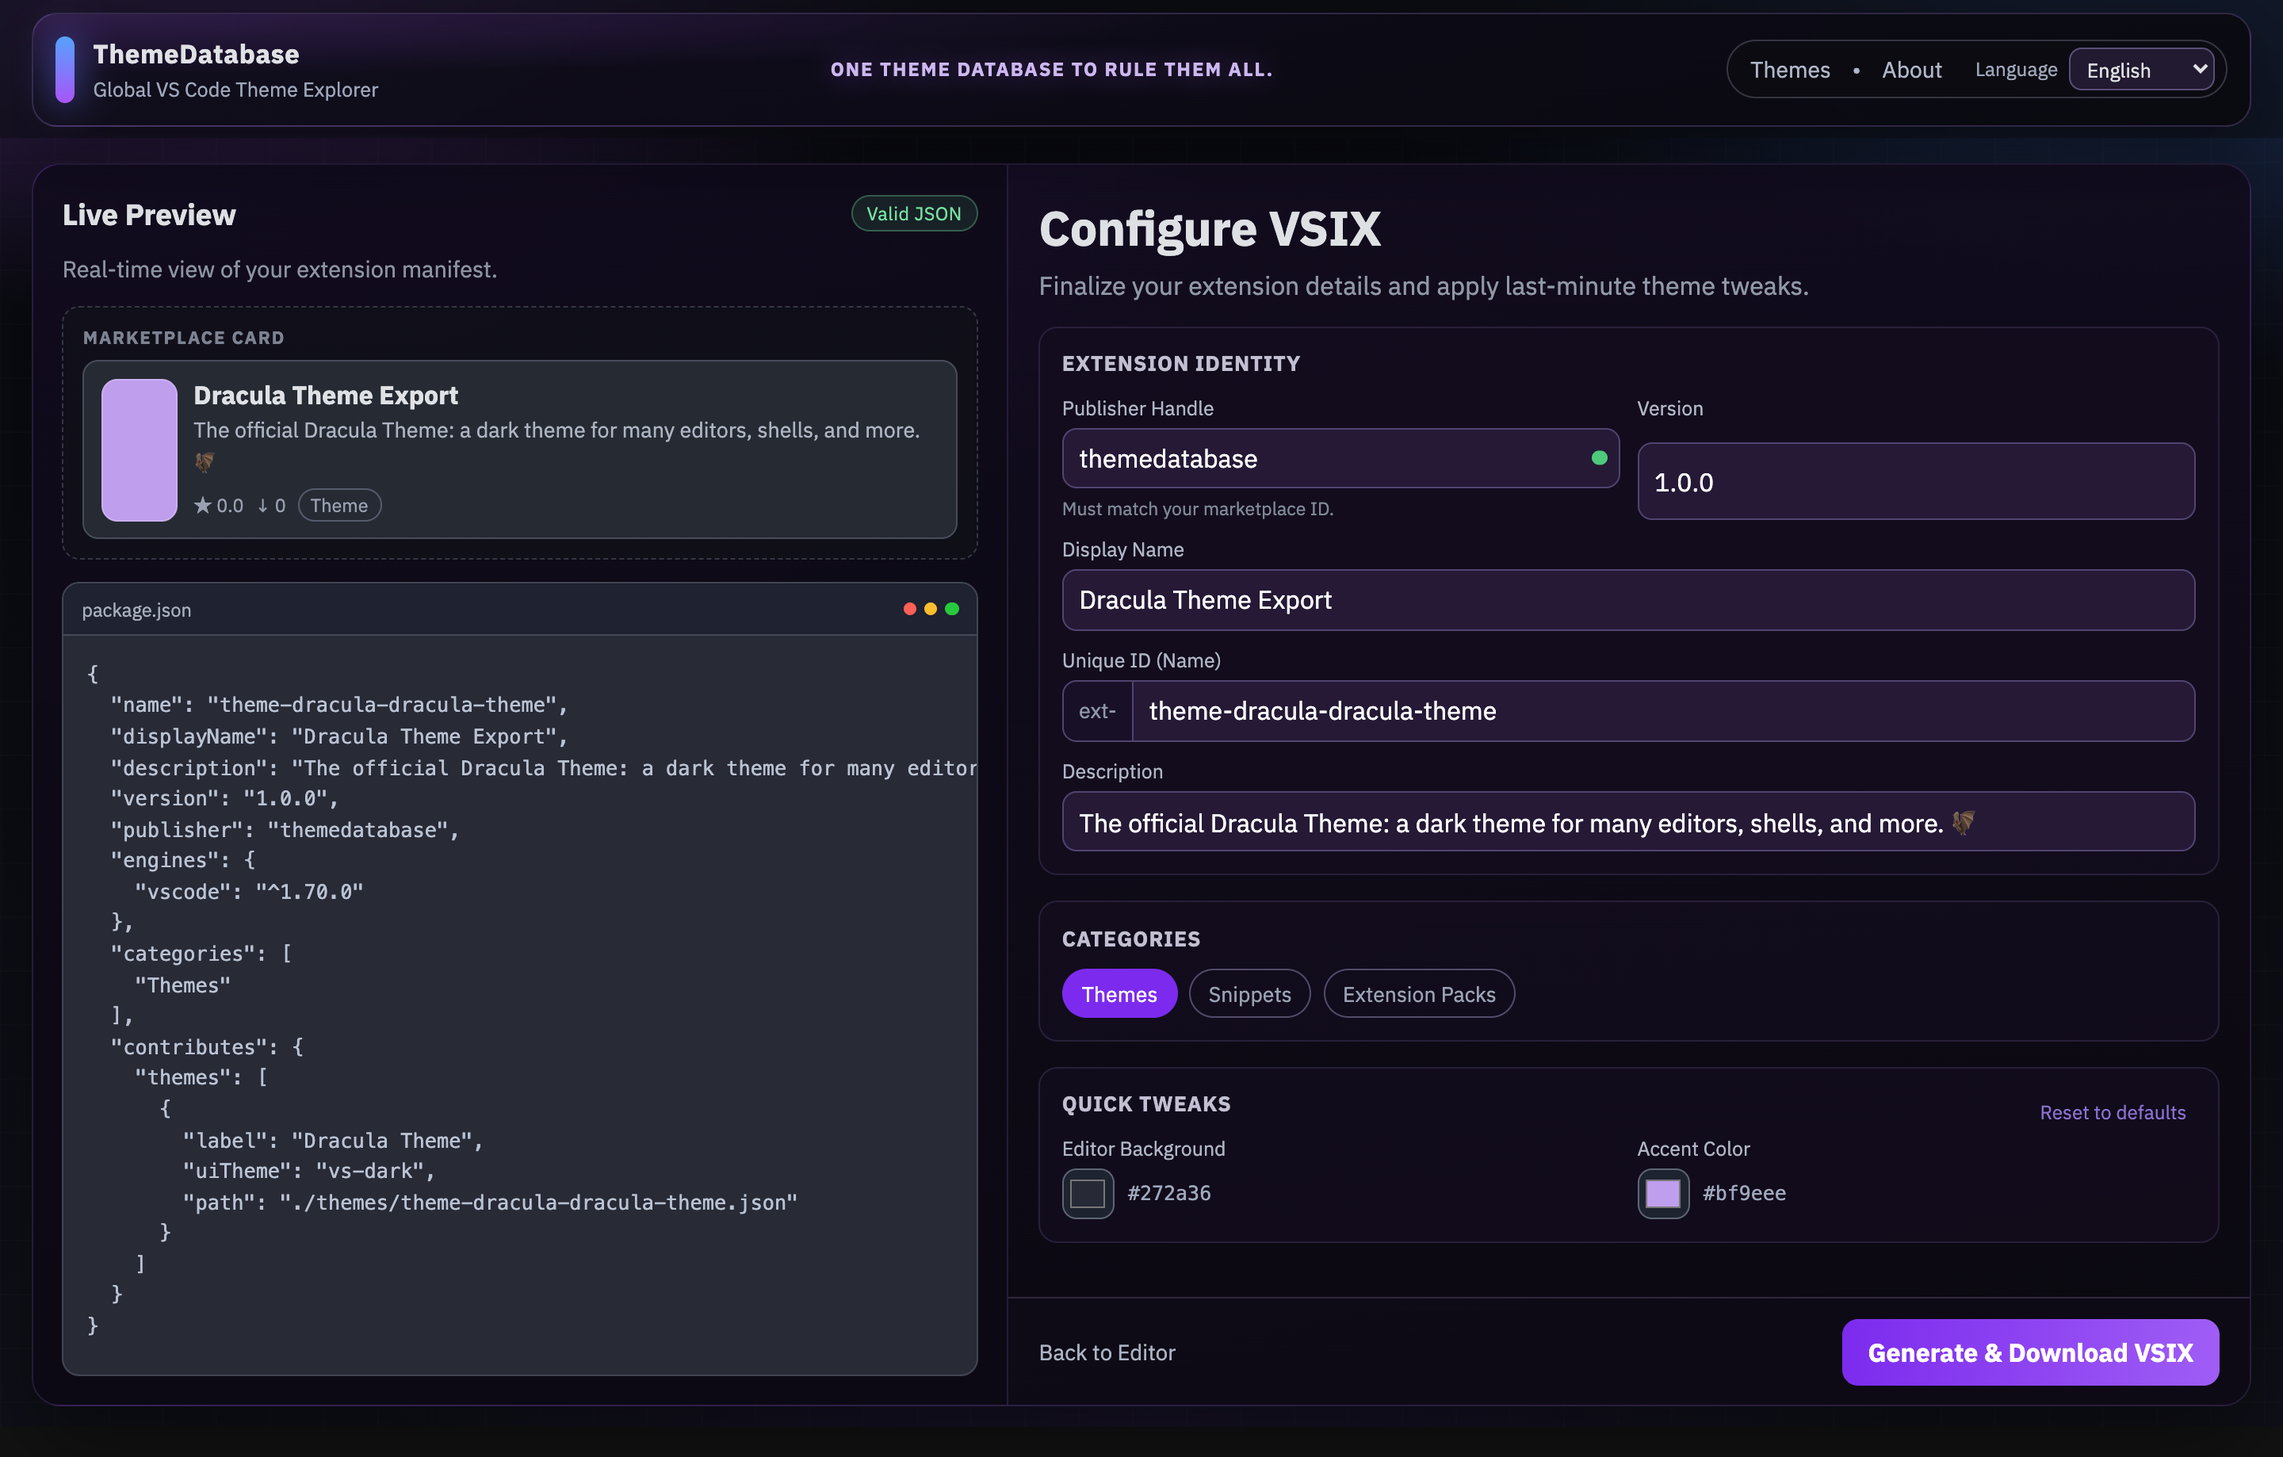
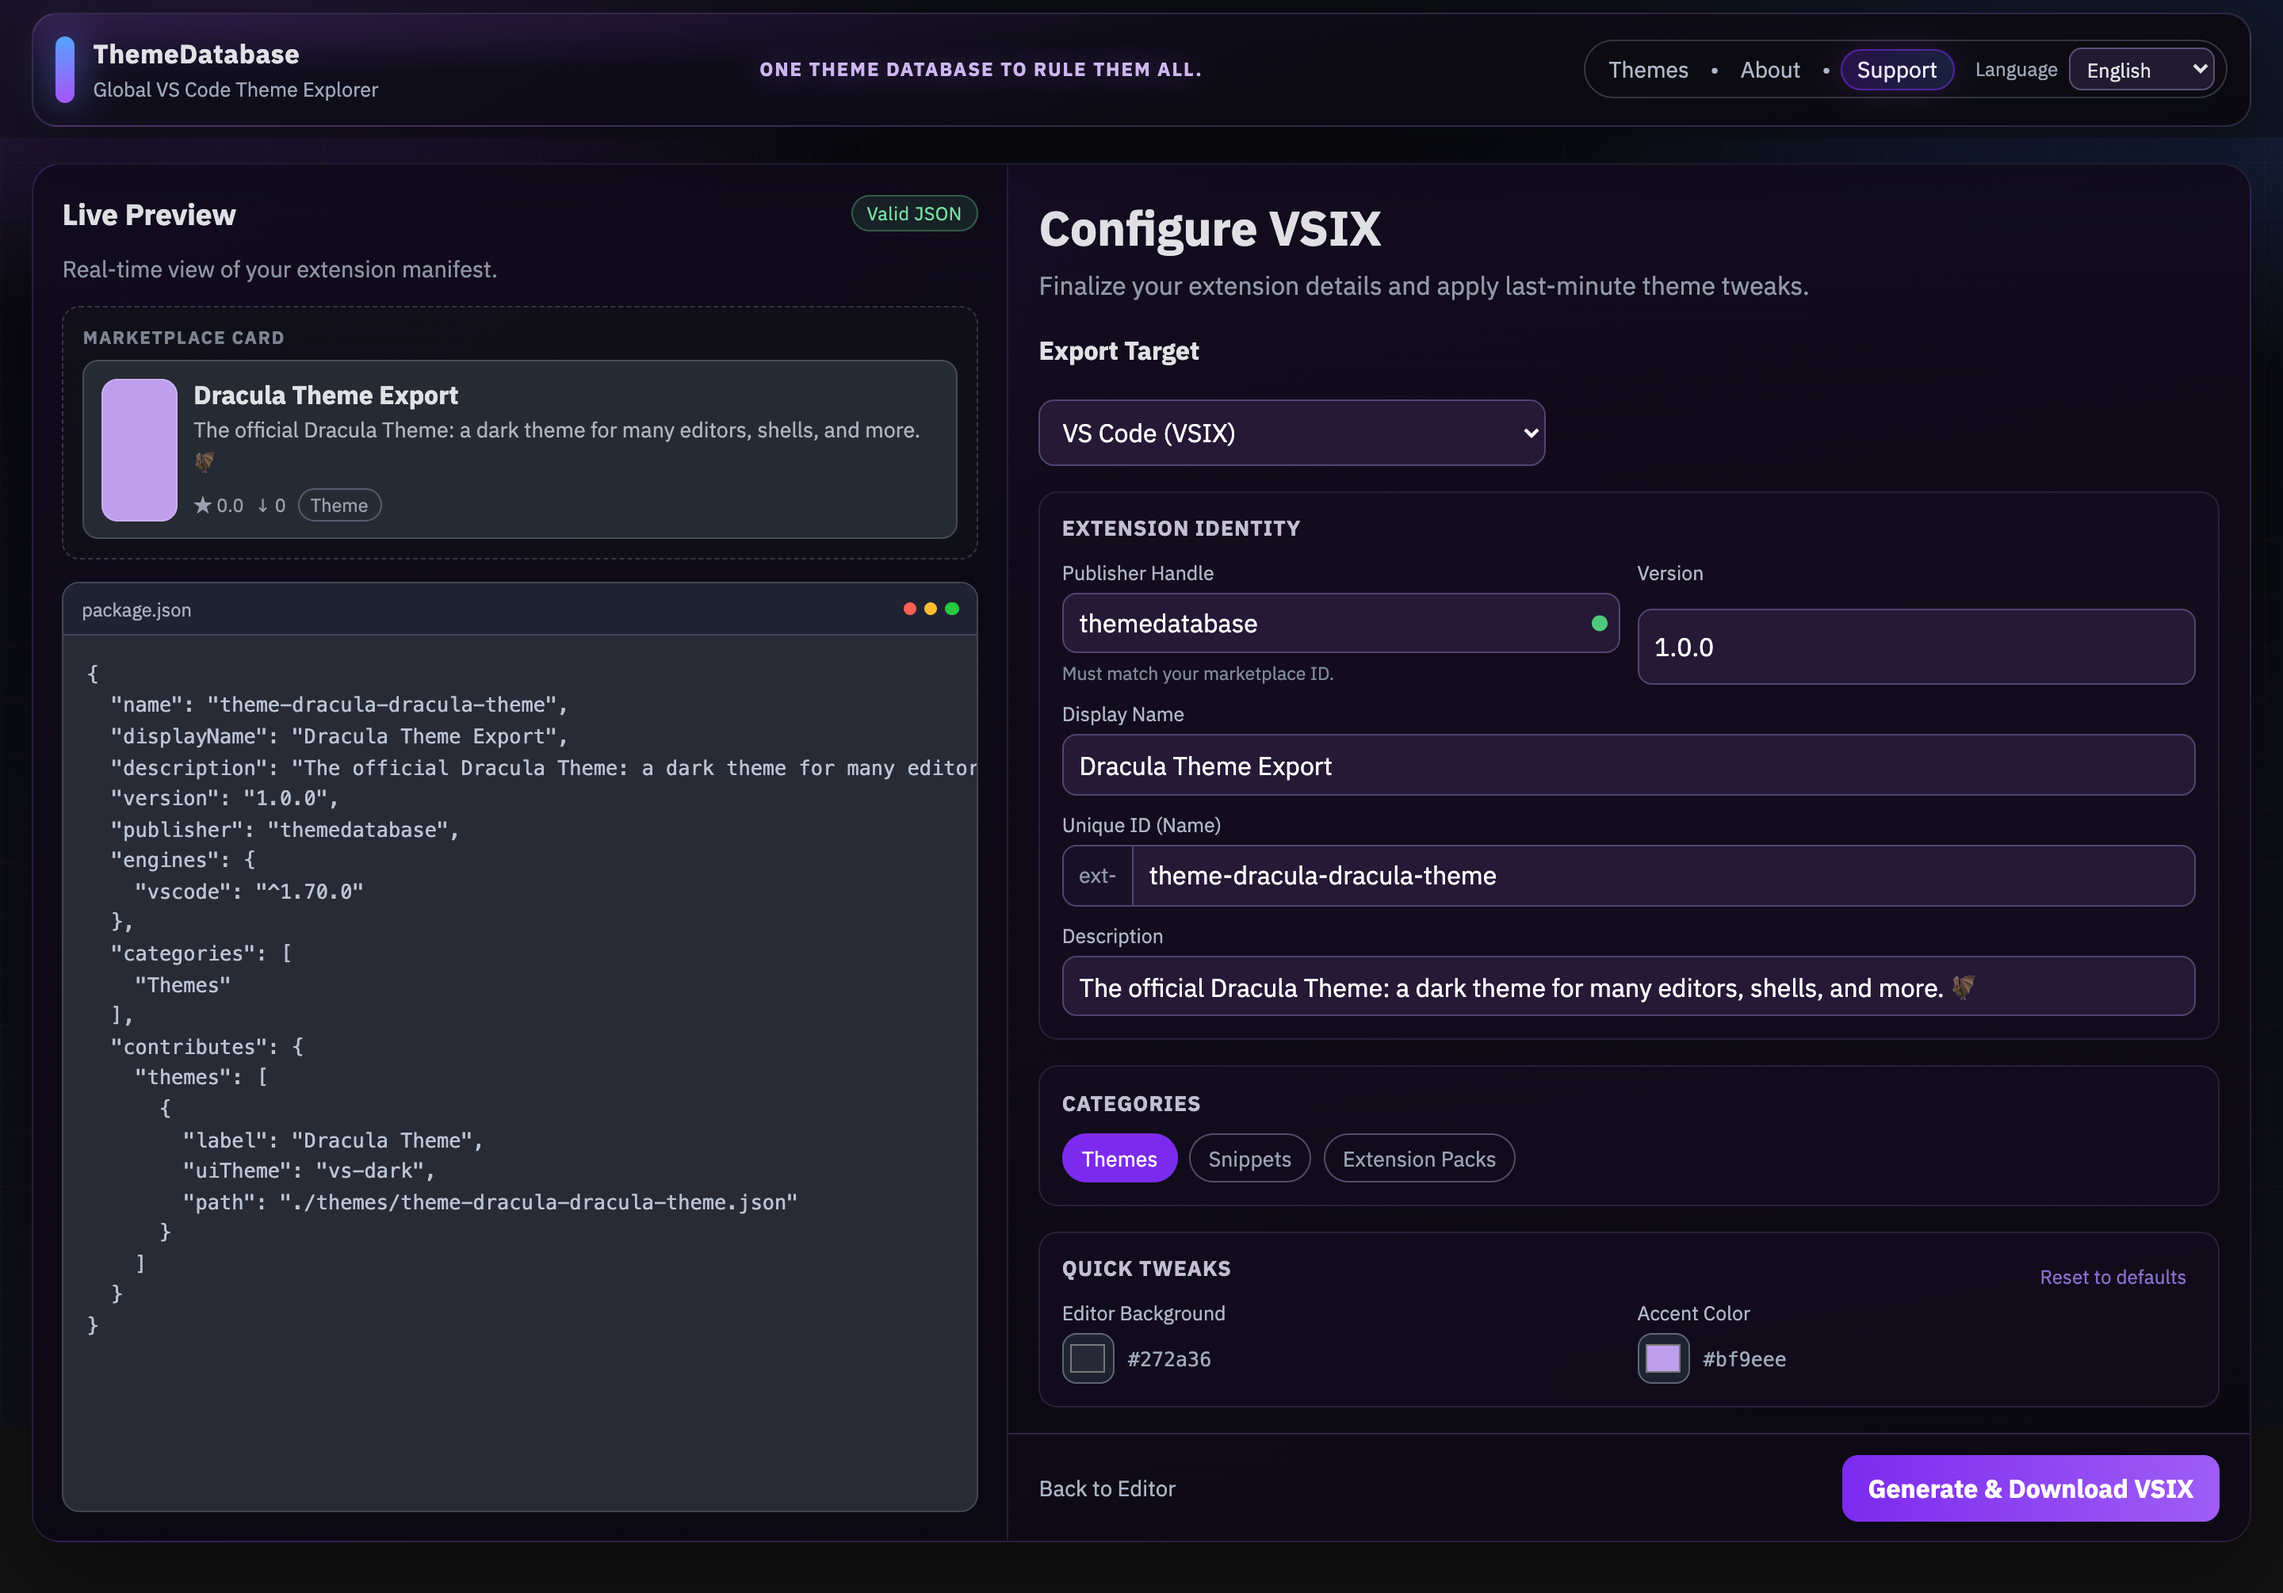
docs: update README and screenshots

diff --git a/README.md b/README.md
@@ -10,9 +10,13 @@ Home (interactive color picker + filters):
 
 ![ThemeDatabase Home](docs/screenshots/home.png)
 
-VSIX Builder (generate and download extension package):
+Export Builder (VSIX + other targets):
 
 ![ThemeDatabase VSIX Builder](docs/screenshots/vsix-builder.png)
+
+Theme Pack Builder (select up to 10 themes, export as one VSIX):
+
+![ThemeDatabase Theme Pack Builder](docs/screenshots/theme-pack-builder.png)
 
 ## Core Features
 
@@ -20,7 +24,15 @@ VSIX Builder (generate and download extension package):
 - Color palette + HEX picker: presets, custom picker, and tolerance slider.
 - Theme Explorer: virtualized grid/list browsing for large datasets.
 - Theme Detail: palette breakdown, editor colors, and similar themes.
-- VSIX Builder: validate metadata and generate a downloadable `.vsix` (JSZip, client-side).
+- Theme selection (max 10): pin selected themes to the top and remove duplicates from the main list.
+- Theme Pack Builder: export selected themes as a single `.vsix` theme pack.
+- Export Builder: generate artifacts client-side:
+  - VS Code `.vsix`
+  - JetBrains color scheme (`.icls`) and plugin zip
+  - Xcode `.dvtcolortheme`
+  - Vim colorscheme
+  - Emacs theme
+- Support popover: Buy Me a Coffee link + manual supporters list (`public/supporters.json`).
 - GitHub Pages-safe routing: `HashRouter` with `base: './'`.
 
 ## Stack
@@ -86,7 +98,7 @@ Deployment flow:
 
 Suggested values for GitHub repo settings:
 
-- **Description**: Global VS Code theme database: pick colors from code, filter 22K+ themes, export as VSIX.
+- **Description**: Global theme database: pick colors from code, filter 22K+ themes, export to VS Code/JetBrains/Xcode/Vim/Emacs.
 - **Website**: `https://nsozturk.github.io/ThemeDatabase/`
 - **Topics**:
   - `vscode`
@@ -94,6 +106,10 @@ Suggested values for GitHub repo settings:
   - `theme-database`
   - `theme-explorer`
   - `vsix`
+  - `jetbrains`
+  - `xcode`
+  - `vim`
+  - `emacs`
   - `color-matching`
   - `syntax-highlighting`
   - `github-pages`
@@ -107,6 +123,14 @@ This repo includes a script that captures real screenshots using your local Chro
 ```bash
 node scripts/capture-screenshots.mjs
 ```
+
+## Support Link
+
+The support CTA is configured in `public/supporters.json`:
+
+- `ctaUrl`: `https://buymeacoffee.com/ns0bj`
+- `tiers`: used for suggested amounts in the support popover
+- `supporters`: manual “Thanks” list displayed in About
 
 ## License
 
